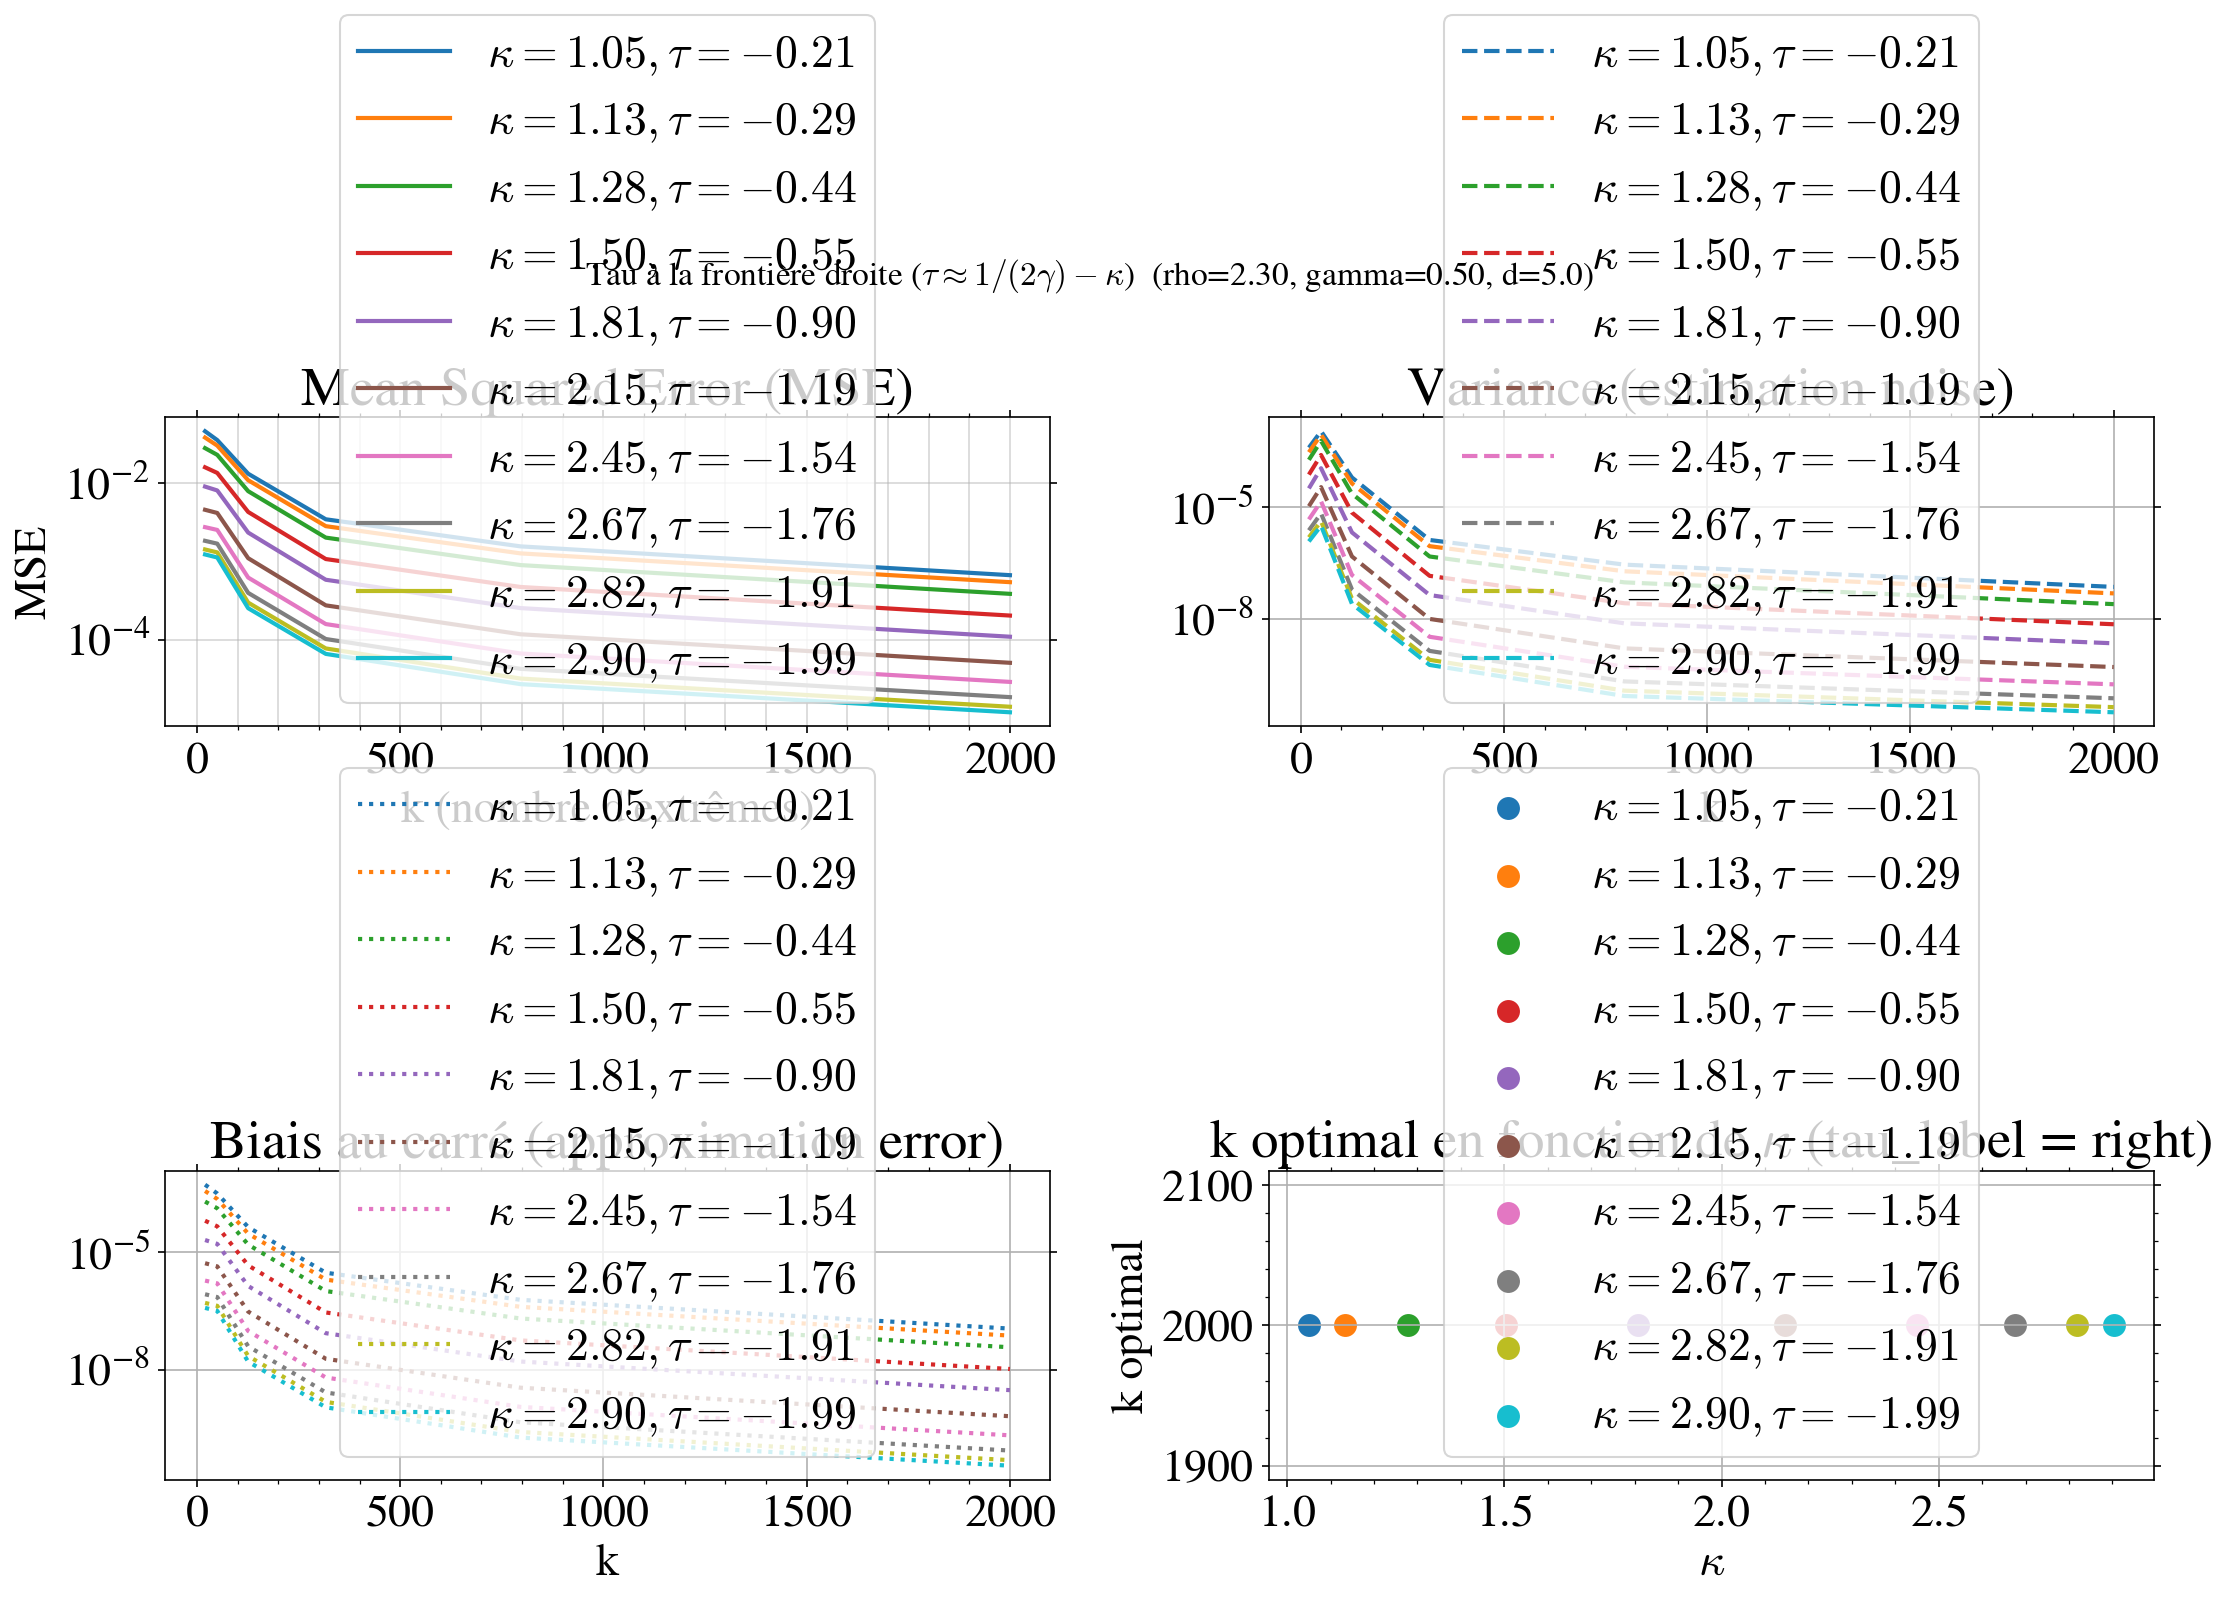
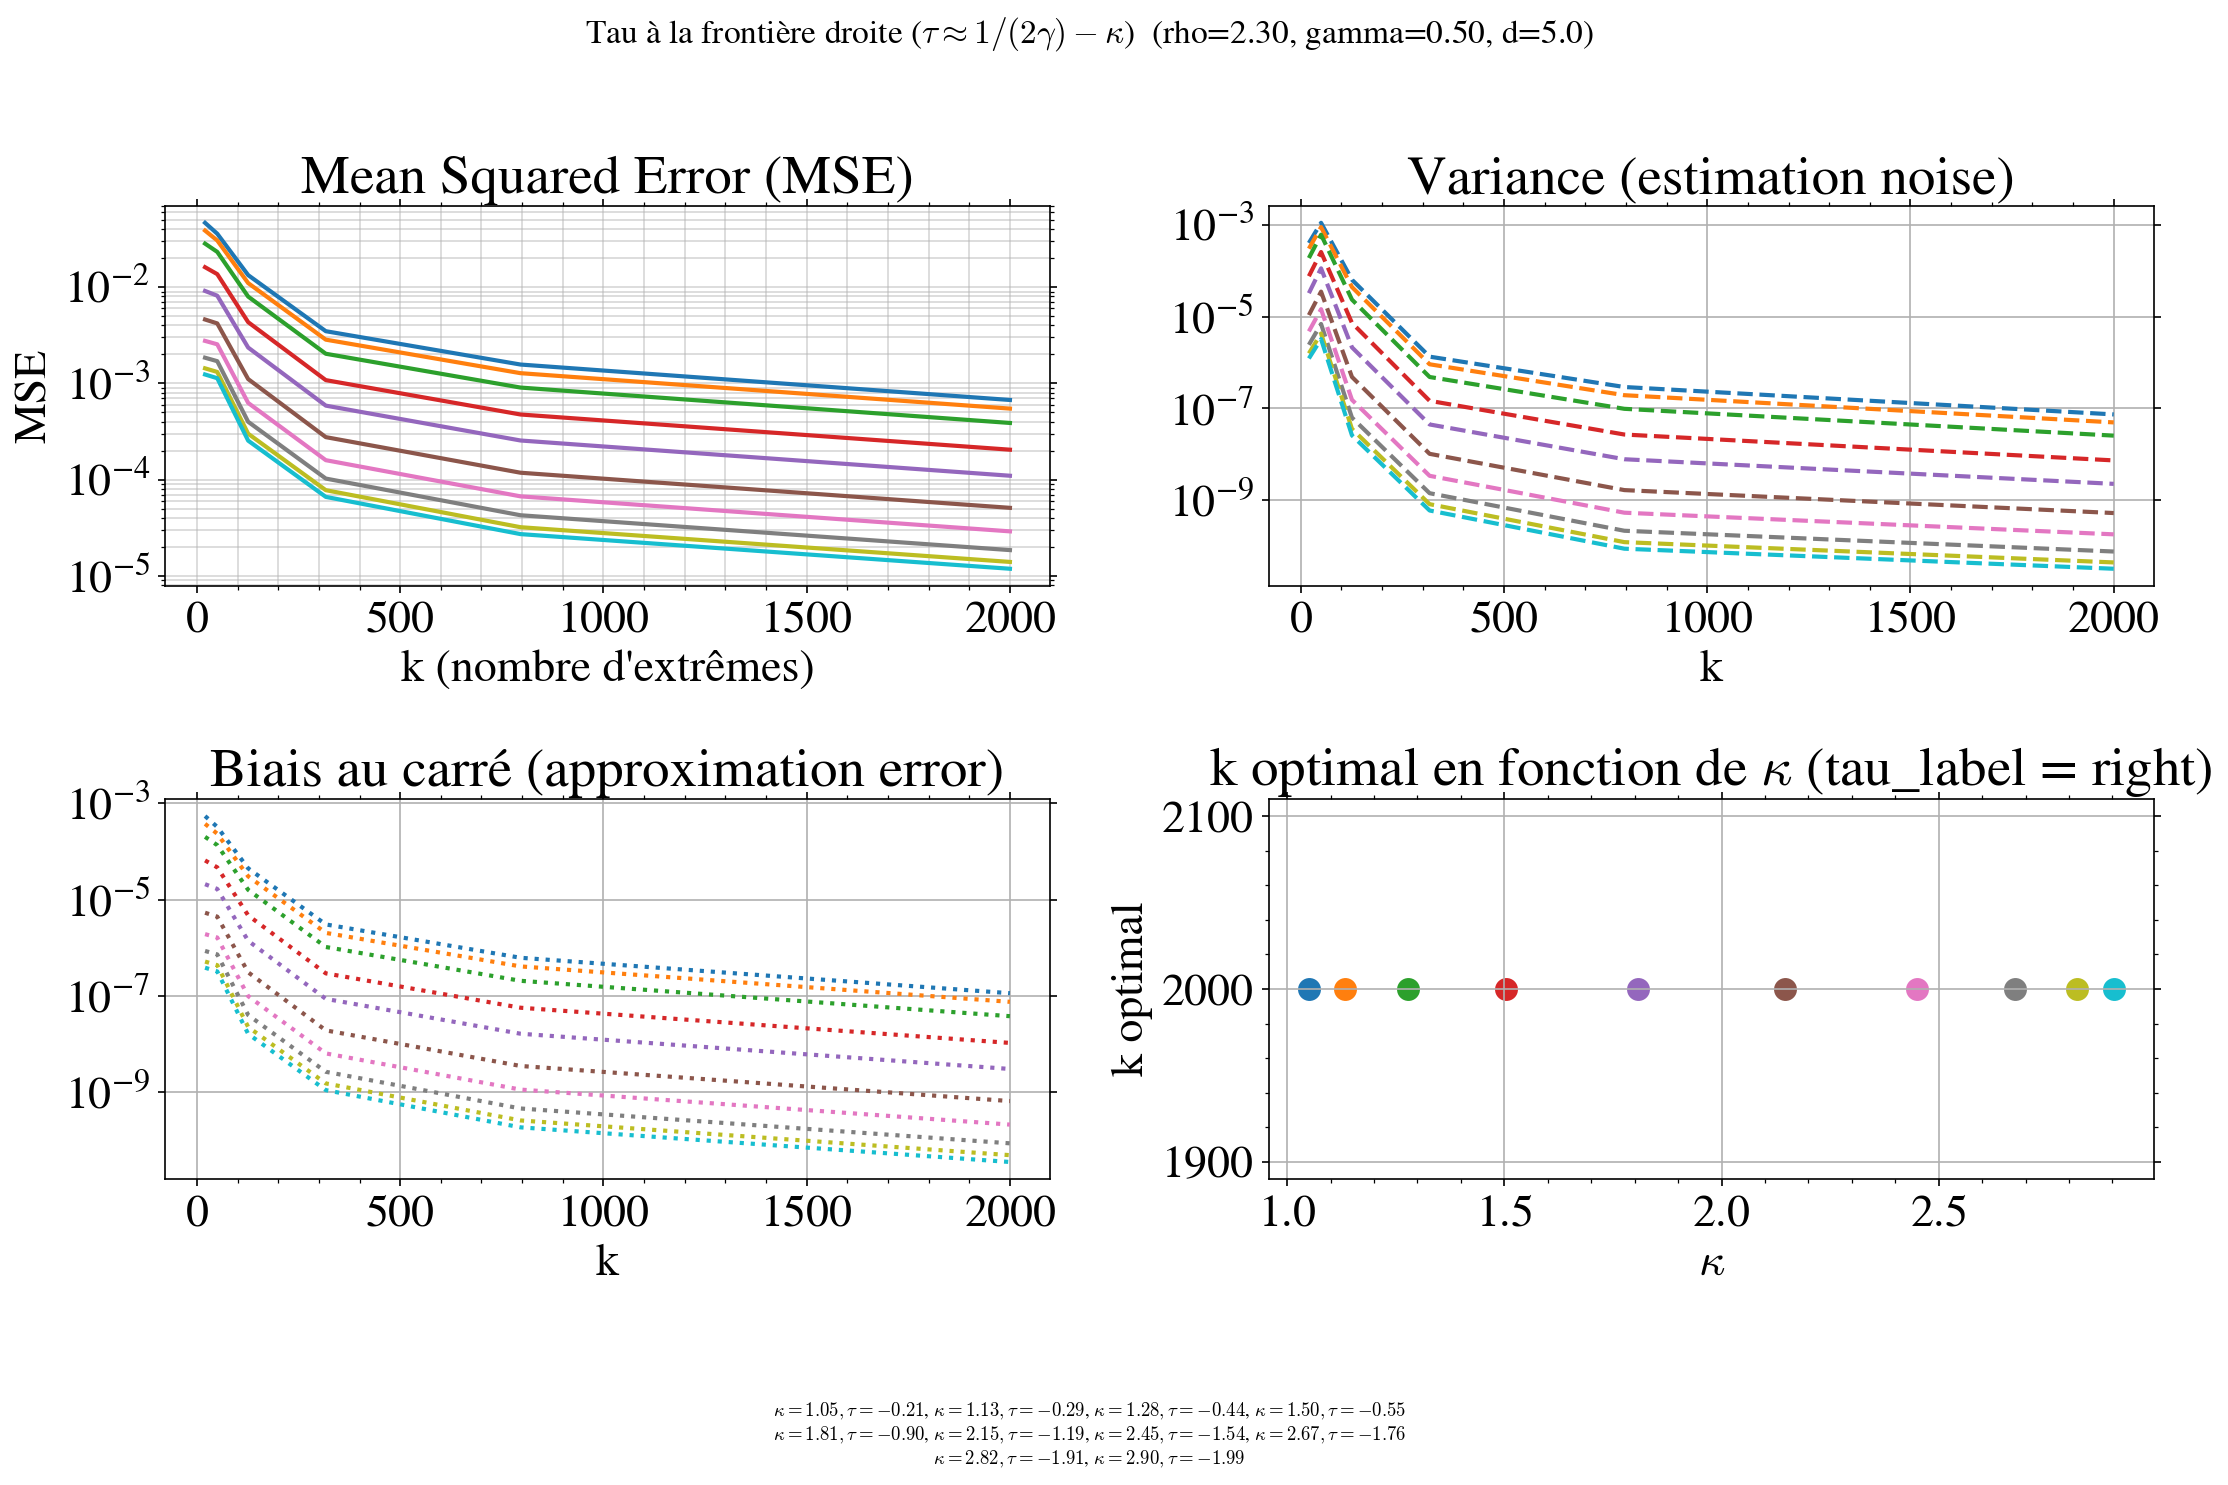
new plot

diff --git a/notebooks/former/plot_edge_simulations_tau_kappa.py b/notebooks/former/plot_edge_simulations_tau_kappa.py
@@ -319,12 +319,11 @@ print("\n" + "=" * 80)
 print("Creating plots: sim.py style (MSE, Variance, Bias^2 vs k, and k_optimal vs kappa)")
 print("=" * 80)
 
-# we select which gamma, d, and n to plot (use first available if multiple)
+# we select which gamma and n to plot (use first available if multiple)
 plot_gamma = GAMMA_VALUES[0] if len(GAMMA_VALUES) > 0 else None
-plot_d = D_VALUES[0] if len(D_VALUES) > 0 else None
 plot_n = N_VALUES[0] if len(N_VALUES) > 0 else None
 
-if plot_gamma is None or plot_d is None:
+if plot_gamma is None:
     print("No data available for plotting")
 else:
     for rho_idx, rho in enumerate(RHO_VALUES):
@@ -334,6 +333,32 @@ else:
         if rho not in results_by_k or plot_gamma not in results_by_k[rho]:
             print(f"  No results for rho={rho}, gamma={plot_gamma}, skipping plots.")
             continue
+        
+        # we find the first available d value for this rho
+        plot_d = None
+        for d_val in D_VALUES:
+            # we check if this d value has any data
+            has_any_data = False
+            for kappa in KAPPA_VALUES:
+                if (kappa in results_by_k[rho][plot_gamma] and 
+                    len(results_by_k[rho][plot_gamma][kappa]) > 0):
+                    for tau in results_by_k[rho][plot_gamma][kappa].keys():
+                        if d_val in results_by_k[rho][plot_gamma][kappa][tau]:
+                            has_any_data = True
+                            break
+                    if has_any_data:
+                        break
+                if has_any_data:
+                    break
+            if has_any_data:
+                plot_d = d_val
+                break
+        
+        if plot_d is None:
+            print(f"  No data found for any d value for rho={rho}, skipping plots.")
+            continue
+        
+        print(f"  Using d={plot_d} for this rho")
         
         # we collect all kappa values that have data
         valid_kappas = []
@@ -423,21 +448,18 @@ else:
         ax_mse.set_xlabel('k (Nombre d\'extrêmes)')
         ax_mse.set_ylabel('MSE')
         ax_mse.set_yscale('log')
-        ax_mse.legend()
         ax_mse.grid(True, which="both", ls="-", alpha=0.5)
         
         ax_var.set_title('Variance (Estimation Noise)')
         ax_var.set_xlabel('k')
         ax_var.set_ylabel('Variance')
         ax_var.set_yscale('log')
-        ax_var.legend()
         ax_var.grid(True)
         
         ax_bias.set_title('Biais au carré (Approximation Error)')
         ax_bias.set_xlabel('k')
         ax_bias.set_ylabel('Biais²')
         ax_bias.set_yscale('log')
-        ax_bias.legend()
         ax_bias.grid(True)
         
         ax_kopt.set_title(r'k optimal en fonction de $\kappa$')
@@ -445,7 +467,30 @@ else:
         ax_kopt.set_ylabel('k optimal')
         ax_kopt.grid(True)
         
-        plt.tight_layout()
+        # we add legend as text below the plot
+        kappa_list = sorted(plot_data.keys())
+        legend_text = ', '.join([rf'$\kappa={k:.2f}$' for k in kappa_list])
+        # we split long legends into multiple lines if needed
+        if len(legend_text) > 100:
+            # we split into chunks
+            chunks = []
+            current_chunk = []
+            current_length = 0
+            for k in kappa_list:
+                k_str = rf'$\kappa={k:.2f}$'
+                if current_length + len(k_str) + 2 > 100 and current_chunk:
+                    chunks.append(', '.join(current_chunk))
+                    current_chunk = [k_str]
+                    current_length = len(k_str)
+                else:
+                    current_chunk.append(k_str)
+                    current_length += len(k_str) + 2
+            if current_chunk:
+                chunks.append(', '.join(current_chunk))
+            legend_text = '\n'.join(chunks)
+        fig.text(0.5, 0.01, legend_text, ha='center', va='bottom', fontsize=11)
+        
+        plt.tight_layout(rect=[0, 0.08, 1, 0.98])  # we leave space at bottom for legend
         rho_str = f"{rho:.2f}".replace('.', 'p').replace('-', 'm')
         plot_path = OUTPUT_DIR / f"bias_variance_mse_rho{rho_str}.png"
         print(f"  Saving plot to {plot_path}...")
@@ -475,7 +520,7 @@ def classify_tau(kappa, tau, gamma, eps=1e-2):
     else:
         return "mid"
 
-if plot_gamma is None or plot_d is None:
+if plot_gamma is None:
     print("No data available for plotting")
 else:
     tau_labels_order = ["left", "mid", "right"]
@@ -487,6 +532,29 @@ else:
     
     for rho_idx, rho in enumerate(RHO_VALUES):
         if rho not in results_by_k or plot_gamma not in results_by_k[rho]:
+            continue
+        
+        # we find the first available d value for this rho
+        plot_d = None
+        for d_val in D_VALUES:
+            # we check if this d value has any data
+            has_any_data = False
+            for kappa in KAPPA_VALUES:
+                if (kappa in results_by_k[rho][plot_gamma] and 
+                    len(results_by_k[rho][plot_gamma][kappa]) > 0):
+                    for tau in results_by_k[rho][plot_gamma][kappa].keys():
+                        if d_val in results_by_k[rho][plot_gamma][kappa][tau]:
+                            has_any_data = True
+                            break
+                    if has_any_data:
+                        break
+                if has_any_data:
+                    break
+            if has_any_data:
+                plot_d = d_val
+                break
+        
+        if plot_d is None:
             continue
         
         for tau_label in tau_labels_order:
@@ -559,28 +627,65 @@ else:
             ax_mse.set_ylabel("MSE")
             ax_mse.set_yscale("log")
             ax_mse.grid(True, which="both", ls="-", alpha=0.5)
-            ax_mse.legend()
             
             ax_var.set_title("Variance (estimation noise)")
             ax_var.set_xlabel("k")
             ax_var.set_yscale("log")
             ax_var.grid(True)
-            ax_var.legend()
             
             ax_bias.set_title("Biais au carré (approximation error)")
             ax_bias.set_xlabel("k")
             ax_bias.set_yscale("log")
             ax_bias.grid(True)
-            ax_bias.legend()
             
             ax_kopt.set_title(rf"k optimal en fonction de $\kappa$ "
                             f"(tau_label = {tau_label})")
             ax_kopt.set_xlabel(r"$\kappa$")
             ax_kopt.set_ylabel("k optimal")
             ax_kopt.grid(True)
-            ax_kopt.legend()
             
-            plt.tight_layout()
+            # we add legend as text below the plot
+            kappa_tau_list = []
+            for kappa in sorted(plot_data_tau.keys()):
+                # we find the actual tau value used
+                actual_tau = None
+                for tau in results_by_k[rho][plot_gamma][kappa].keys():
+                    if plot_d in results_by_k[rho][plot_gamma][kappa][tau]:
+                        if classify_tau(kappa, tau, plot_gamma) == tau_label:
+                            actual_tau = tau
+                            break
+                if actual_tau is not None:
+                    kappa_tau_list.append(rf'$\kappa={kappa:.2f}, \tau={actual_tau:.2f}$')
+            
+            legend_text = ', '.join(kappa_tau_list)
+            # we split long legends into multiple lines if needed
+            if len(legend_text) > 120:
+                # we split into chunks
+                chunks = []
+                current_chunk = []
+                current_length = 0
+                for kappa in sorted(plot_data_tau.keys()):
+                    actual_tau = None
+                    for tau in results_by_k[rho][plot_gamma][kappa].keys():
+                        if plot_d in results_by_k[rho][plot_gamma][kappa][tau]:
+                            if classify_tau(kappa, tau, plot_gamma) == tau_label:
+                                actual_tau = tau
+                                break
+                    if actual_tau is not None:
+                        k_str = rf'$\kappa={kappa:.2f}, \tau={actual_tau:.2f}$'
+                        if current_length + len(k_str) + 2 > 120 and current_chunk:
+                            chunks.append(', '.join(current_chunk))
+                            current_chunk = [k_str]
+                            current_length = len(k_str)
+                        else:
+                            current_chunk.append(k_str)
+                            current_length += len(k_str) + 2
+                if current_chunk:
+                    chunks.append(', '.join(current_chunk))
+                legend_text = '\n'.join(chunks)
+            fig.text(0.5, 0.01, legend_text, ha='center', va='bottom', fontsize=9)
+            
+            plt.tight_layout(rect=[0, 0.10, 1, 0.98])  # we leave space at bottom for legend (more space for tau labels)
             rho_str = f"{rho:.2f}".replace('.', 'p').replace('-', 'm')
             plot_path = OUTPUT_DIR / f"bias_variance_mse_rho{rho_str}_tau{tau_label}.png"
             print(f"  Saving plot to {plot_path}...")

diff --git a/notebooks/former/torun.py b/notebooks/former/torun.py
@@ -9,10 +9,14 @@ from tqdm import tqdm  # we use tqdm for progress bars
 
 Q = 2.1  # we set q > 2 for theory  # we use q slightly above 2
 GAMMA_VALUES = np.array([0.5])  # we set some tail indices gamma in (0,1)
-RHO_VALUES = np.linspace(-0.5, -5.0, 6)  # we set |rho| in [0.5, 5], used as second-order magnitude
-D_VALUES = np.array([50])  # we set d in {5,10,...,50}
+# we set rho values: negative from -5.0 to -0.5, and positive from 0.5 to 3.2
+# we match the values that the plotting script expects
+RHO_NEGATIVE = np.array([-5.0, -4.1, -3.2, -2.3, -1.4, -0.5])  # negative rho values
+RHO_POSITIVE = np.array([0.5, 1.4, 2.3, 3.2])  # positive rho values  
+RHO_VALUES = np.concatenate([RHO_NEGATIVE, RHO_POSITIVE])  # we combine both
+D_VALUES = np.array([5, 6, 7, 8, 9, 10, 15, 20, 25, 30, 35, 40, 45, 50])  # we set d in {5,10,...,50}
 N_VALUES = np.unique(np.round(np.logspace(2.0, 4, 6)).astype(int))  # we set n on log scale between 10^2 and ~10000
-N_MC = 500  # we set monte carlo replications (increase on cluster)
+N_MC = 50  # we set monte carlo replications (reduced for faster generation, can increase later)
 TRUE_BETA_TYPE = "first_coords"  # we choose how to define true beta
 OUTPUT_ROOT = Path("data/fepls_grid")  # we set root directory to save all results
 OUTPUT_ROOT.mkdir(parents=True, exist_ok=True)
@@ -101,7 +105,9 @@ def choose_k_n(n: int, rho_second: float, c_k: float = 5.0, k_min: int = 5) -> i
 def run_full_grid():
     # we iterate over all parameter combinations with progress bars
     for rho_second in tqdm(RHO_VALUES, desc="rho", position=0):
-        rho_dir = OUTPUT_ROOT / f"rho_{rho_second:.2f}".replace(".", "p")  # we build rho directory
+        # we format rho for directory name: handle negative values with 'm' prefix
+        rho_str = f"{rho_second:.2f}".replace(".", "p").replace("-", "m")
+        rho_dir = OUTPUT_ROOT / f"rho_{rho_str}"  # we build rho directory
         rho_dir.mkdir(parents=True, exist_ok=True)  # we create directory
 
         for gamma in tqdm(GAMMA_VALUES, desc="gamma", position=1, leave=False):

diff --git a/refs/report/report.tex b/refs/report/report.tex
@@ -590,10 +590,7 @@ We present a comprehensive empirical validation of FEPLS on Hungarian stock mark
 \paragraph{Comments on the low frequency data:}
 In contrast to the high-frequency setting, the low-frequency analysis (daily data) shows excellent Hill estimator performance, indicating proper heavy-tail behavior. However, we work with a much smaller sample size, with $k < 10$ extreme observations. In this regime of very noisy data with limited samples, we observe that the $\tau$ dependency becomes crucial: the choice of test function parameter $\tau$ significantly impacts the FEPLS estimates and their stability.
 
-Our empirical findings reveal an important structural pattern: we can identify distinct stock groups based on their sensitivity to end-of-day volatility. Some stock pairs exhibit a clear relationship where end-of-day volatility drives the maximum return of the next day's stock movement, while others remain insensitive to this effect. This grouping provides valuable insights into cross-asset dependencies and volatility spillover mechanisms in financial markets.
-
-
-
+Our empirical findings reveal an important structural pattern: we can identify distinct stock groups based on their sensitivity to end-of-day volatility. Some stock pairs exhibit a clear relationship where end-of-day volatility drives the maximum return of the next day's stock movement, while others remain insensitive to this effect. 
 
 
 
